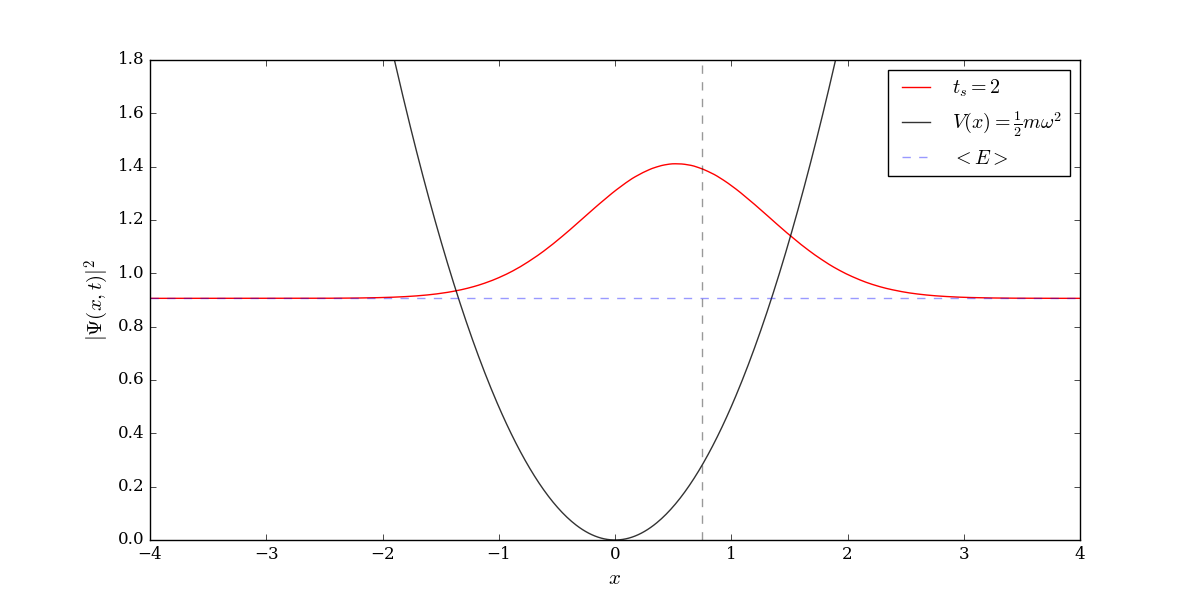
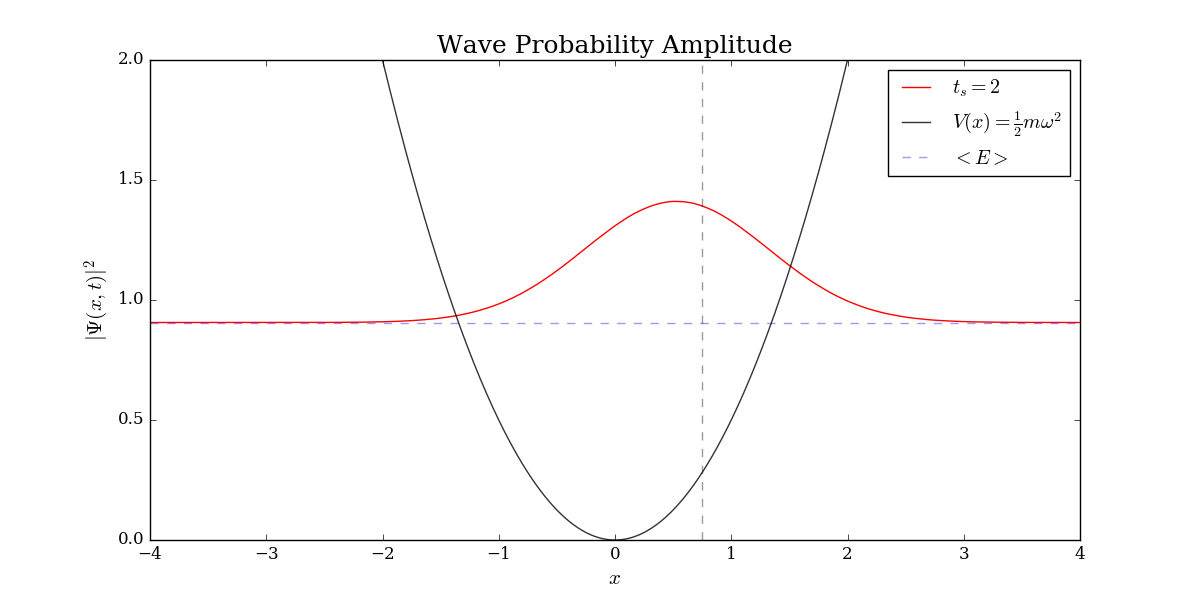
add labels

diff --git a/plot.py b/plot.py
@@ -61,6 +61,7 @@ if __name__ == '__main__':
 	plt.xlabel('Timestep', fontsize=15)
 	plt.ylabel('Expected Value', fontsize=15)
 	plt.legend(loc='lower right')
+	plt.title('Expected values vs. Time', fontsize=18)
 	plt.savefig('plots/expected.png')
 	# plt.show()
 	plt.close()
@@ -94,10 +95,11 @@ if __name__ == '__main__':
 		plt.plot(xvals, phiInit(xvals), color='k', alpha=.8, label=r'$V(x) = \frac{1}{2}m\omega^{2}$')
 		plt.axhline(y=avg_eng_val, linestyle='--', color='b', alpha=.4, label=r'$<E>$')
 		plt.axvline(x=.75, linestyle='--', color='k', alpha=.4)
-		plt.ylim([0,1.8])
+		plt.ylim([0,2])
 		plt.xlabel(r'$x$', fontsize=15)
 		plt.ylabel(r'$|\Psi(x,t)|^{2}$', fontsize=15)
 		plt.legend(loc='upper right')
+		plt.title('Wave Probability Amplitude', fontsize=18)
 		plt.savefig('plots/phi/' + fname + '.png')
 		# plt.show()
 		plt.close()

diff --git a/README.md b/README.md
@@ -1,2 +1,6 @@
+Quantum particle in a harmonic oscillator potential with gaussian initial condition. Wave function and expected values for variables of motion solved numerically using a Feynman path integral.
+
 ![alt text](plots/wave_evolution.gif)
 ![alt text](plots/expected.png)
+
+yay.
